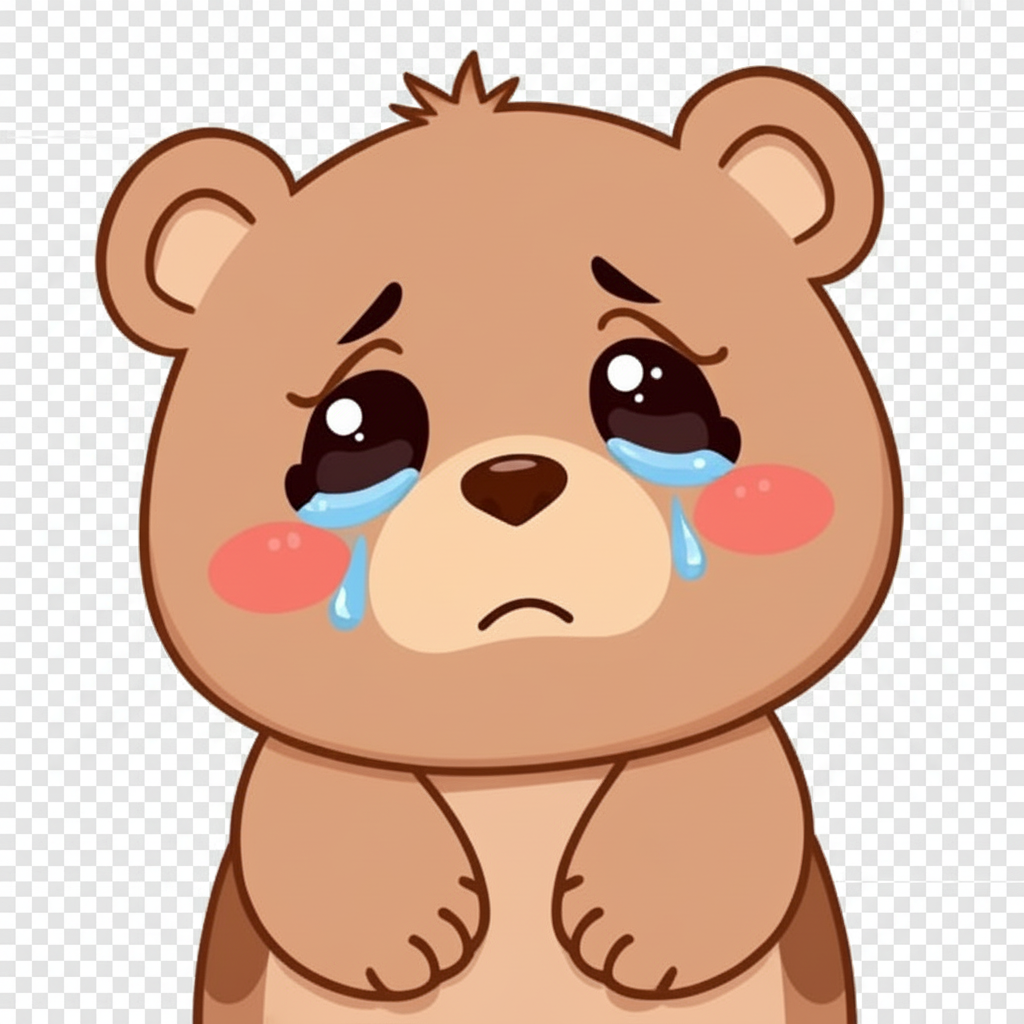
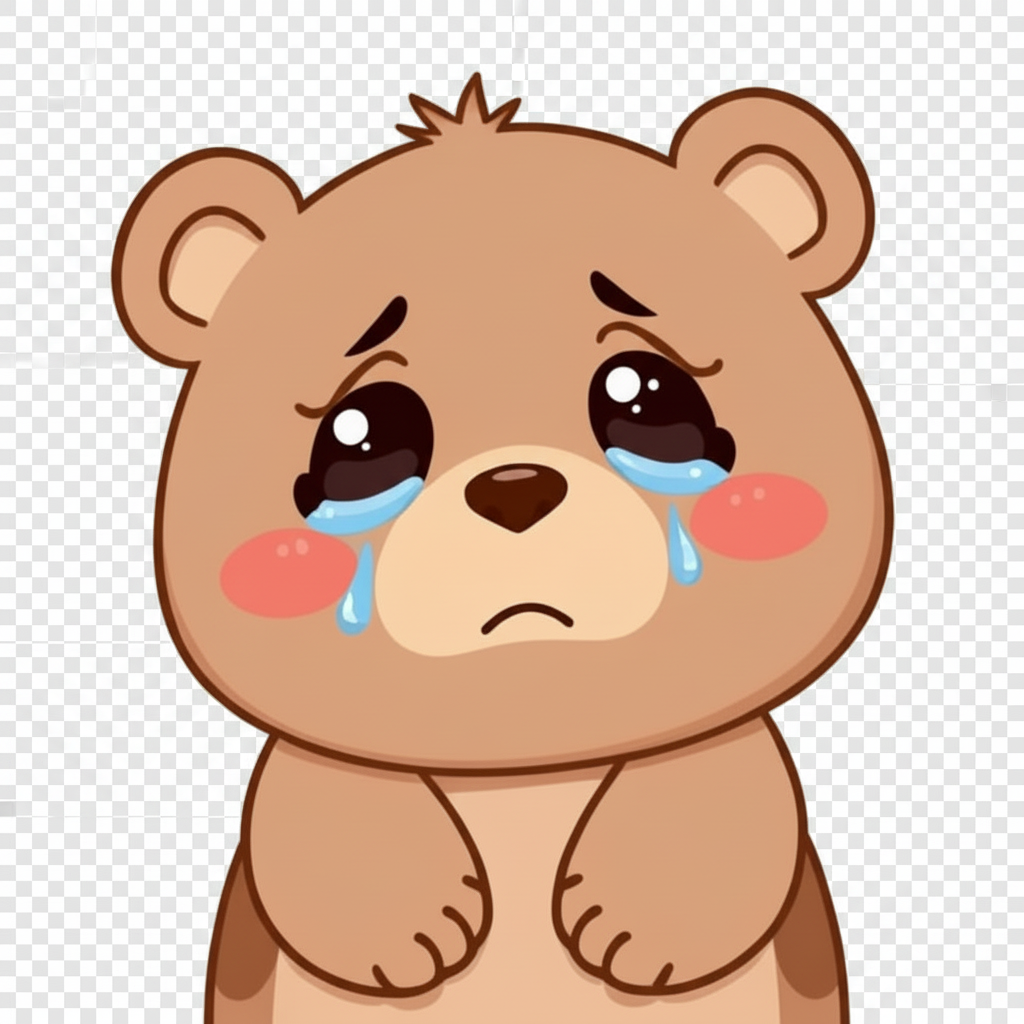
Changes

diff --git a/src/pages/Index.tsx b/src/pages/Index.tsx
@@ -93,11 +93,11 @@ const Index = () => {
                   <AnimatePresence>
                     {showBear && (
                       <motion.div
-                        initial={{ opacity: 0, scale: 0.3, x: 30, rotate: 10 }}
+                        initial={{ opacity: 0, scale: 0.3, x: 20, rotate: 10 }}
                         animate={{ opacity: 1, scale: 1, x: 0, rotate: 0 }}
-                        exit={{ opacity: 0, scale: 0.3, x: 30 }}
+                        exit={{ opacity: 0, scale: 0.3, x: 20 }}
                         transition={{ type: "spring", stiffness: 300, damping: 20 }}
-                        className="absolute -right-8 md:-right-40 top-1/2 -translate-y-1/2"
+                        className="absolute -right-4 md:-right-28 top-1/2 -translate-y-1/2"
                       >
                         <motion.div
                           animate={{ y: [0, -10, 0] }}
@@ -106,7 +106,7 @@ const Index = () => {
                           <img 
                             src={cryingBear} 
                             alt="Crying bear" 
-                            className="w-32 h-32 md:w-44 md:h-44 object-contain drop-shadow-xl"
+                            className="w-40 h-40 md:w-56 md:h-56 object-contain drop-shadow-lg"
                           />
                         </motion.div>
                       </motion.div>
